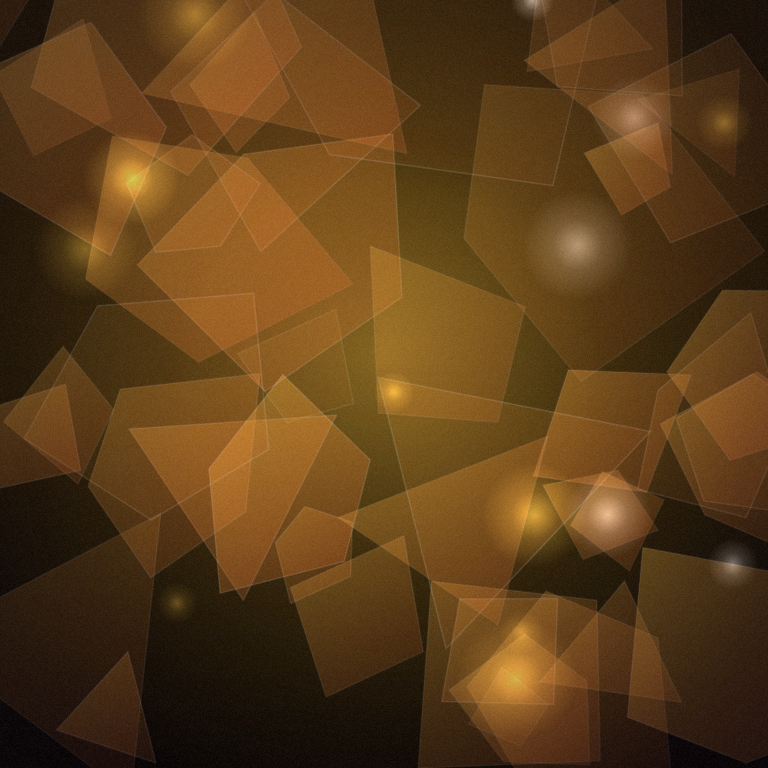
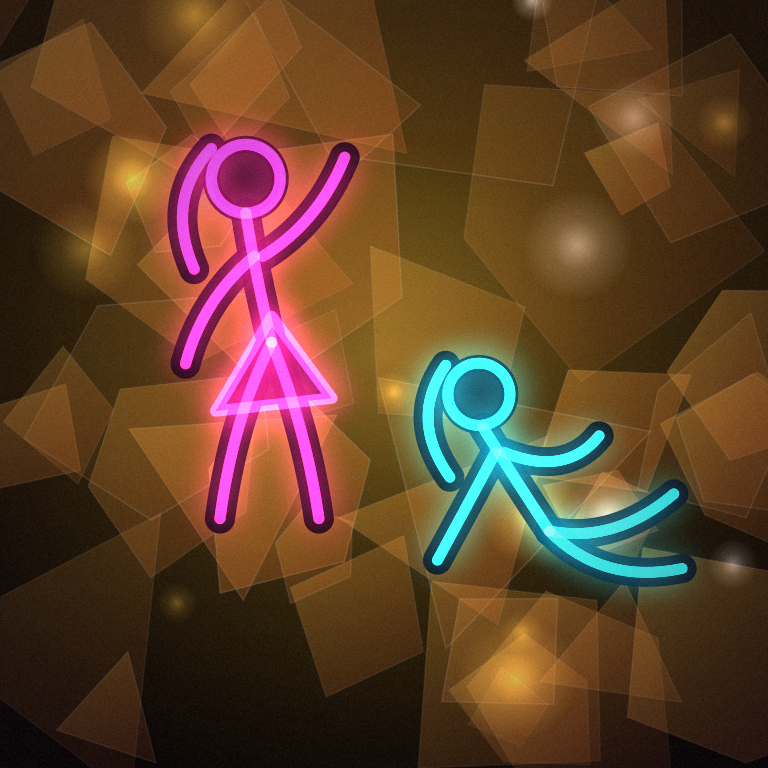
Put a neon sign on the gold, and size the boats to match the other packs
Two figures now stand on the gold field — line art, not anatomy: a head
and a handful of curves apiece, lit like the neon over a late bar. They
are drawn dark first so the shape carries against the bright leaf, then
lined with magenta and cyan. Gold is the tile everyone is sailing for,
so it may as well be the one you look at twice; a side effect is that it
is now the most identifiable tile on the board at a glance.

The boats were oversized. Measuring the visible extent of each pack's
artwork against its size factor, Classic and Simple both put a boat on
screen at 0.62 hex-widths across while Nights was at 0.97 — the earlier
sum missed how far the glow bleeds past the drawn hull. The size factor
now lands it on exactly 0.62, matching the other two. It stays taller
than they are, because a masted sailing boat is taller than the squat
top-down boats those packs use.

Claude-Session: https://claude.ai/code/session_01ScDYQ6yXQR8YPnq1TbD6A9

Changed region(s): [[0.1875, 0.1562, 0.5, 0.7188], [0.5, 0.4375, 0.9062, 0.7812]]

diff --git a/scripts/generate-dangerous-nights-pack.js b/scripts/generate-dangerous-nights-pack.js
@@ -507,6 +507,100 @@ function drawDesert() {
     return canvas;
 }
 
+/**
+ * Figures for the gold tile, posed like the neon over a late bar.
+ *
+ * Each is a head plus a handful of curves in a 0-100 box — line art, not
+ * anatomy. Drawn dark first so the shape reads against the bright gold, then
+ * lined with neon.
+ */
+const FIGURES = {
+    /** Standing, weight on one leg, one arm thrown up. */
+    standing: {
+        head: { x: 50, y: 13, r: 8 },
+        hair: [[42, 6], [31, 18], [38, 34]],
+        skirt: [[56, 45], [43, 67], [70, 64]],
+        strokes: [
+            [[50, 21], [52, 34], [56, 51]],   // spine, with a lean in it
+            [[56, 51], [47, 69], [44, 92]],   // near leg
+            [[56, 51], [64, 71], [67, 92]],   // far leg
+            [[52, 31], [40, 41], [36, 56]],   // arm down to the hip
+            [[54, 31], [67, 23], [73, 8]],    // arm raised
+        ],
+    },
+    /** Seated, leaning back on one arm, legs crossed away. */
+    seated: {
+        head: { x: 34, y: 21, r: 7.5 },
+        hair: [[26, 14], [17, 27], [27, 41]],
+        strokes: [
+            [[35, 29], [43, 42], [51, 54]],   // spine
+            [[51, 54], [67, 57], [81, 45]],   // upper leg
+            [[51, 54], [64, 67], [83, 63]],   // crossed leg
+            [[38, 35], [30, 50], [24, 61]],   // arm bracing behind
+            [[40, 35], [55, 41], [63, 31]],   // arm forward
+        ],
+    },
+};
+
+/** Traces one figure's curves at the current transform. */
+function traceFigure(ctx, figure, u) {
+    figure.strokes.concat([figure.hair]).forEach(([a, b, c]) => {
+        ctx.beginPath();
+        ctx.moveTo(a[0] * u, a[1] * u);
+        ctx.quadraticCurveTo(b[0] * u, b[1] * u, c[0] * u, c[1] * u);
+        ctx.stroke();
+    });
+}
+
+/** Draws a figure at `x`,`y`, sized to `scale` of the tile. */
+function drawFigure(ctx, { figure, x, y, scale, color }) {
+    const u = (TILE * scale) / 100;
+
+    ctx.save();
+    ctx.translate(TILE * x, TILE * y);
+    ctx.lineCap = 'round';
+    ctx.lineJoin = 'round';
+
+    const head = () => {
+        ctx.beginPath();
+        ctx.arc(figure.head.x * u, figure.head.y * u, figure.head.r * u, 0, Math.PI * 2);
+    };
+
+    const skirt = () => {
+        if (!figure.skirt) return false;
+        ctx.beginPath();
+        figure.skirt.forEach(([px, py], i) => {
+            if (i === 0) ctx.moveTo(px * u, py * u);
+            else ctx.lineTo(px * u, py * u);
+        });
+        ctx.closePath();
+        return true;
+    };
+
+    // Dark pass: the silhouette, which is what carries at hex size.
+    ctx.strokeStyle = rgba(INK, 0.9);
+    ctx.fillStyle = rgba(INK, 0.9);
+    ctx.lineWidth = 7 * u;
+    traceFigure(ctx, figure, u);
+    if (skirt()) ctx.fill();
+    head();
+    ctx.fill();
+    ctx.lineWidth = 4 * u;
+    ctx.stroke();
+
+    // Neon rim over the top.
+    glowing(ctx, { color, blur: 30, alpha: 0.85 }, () => {
+        ctx.strokeStyle = rgba(color, 0.65);
+        ctx.lineWidth = 2.6 * u;
+        traceFigure(ctx, figure, u);
+        if (skirt()) ctx.stroke();
+        head();
+        ctx.stroke();
+    });
+
+    ctx.restore();
+}
+
 /** Gold — crumpled leaf, the brightest thing on the board. */
 function drawGold() {
     const { canvas, ctx, size } = tileCanvas();
@@ -556,6 +650,11 @@ function drawGold() {
             alpha: 0.3 + random() * 0.45,
         });
     }
+
+    // The sign over the gold. Two figures, one standing and one sat back, so
+    // the tile is the one you look at twice.
+    drawFigure(ctx, { figure: FIGURES.standing, x: 0.04, y: 0.16, scale: 0.56, color: NEON.magenta });
+    drawFigure(ctx, { figure: FIGURES.seated, x: 0.44, y: 0.4, scale: 0.54, color: NEON.cyan });
 
     vignette(ctx, size, 0.5);
     grain(ctx, size, 10, 13579);

diff --git a/lib/catan/styles.ts b/lib/catan/styles.ts
@@ -118,9 +118,10 @@ export const TILE_STYLES: Record<TileStyleId, TileStyle> = {
             ],
         },
         port: {
-            // The art occupies half its canvas (see the generator), so this is
-            // twice what it would otherwise be.
-            sizeFactor: 2.6,
+            // The art occupies about a third of its canvas (see the generator),
+            // so this is larger than it looks — it puts the boat on screen at
+            // the same 0.62 hex-widths across as the Classic and Simple packs.
+            sizeFactor: 1.66,
             mode: 'overlay',
             baseImage: '/images/catan_boat_nights.png',
             logoPosition: { top: '79%', left: '46%' },
